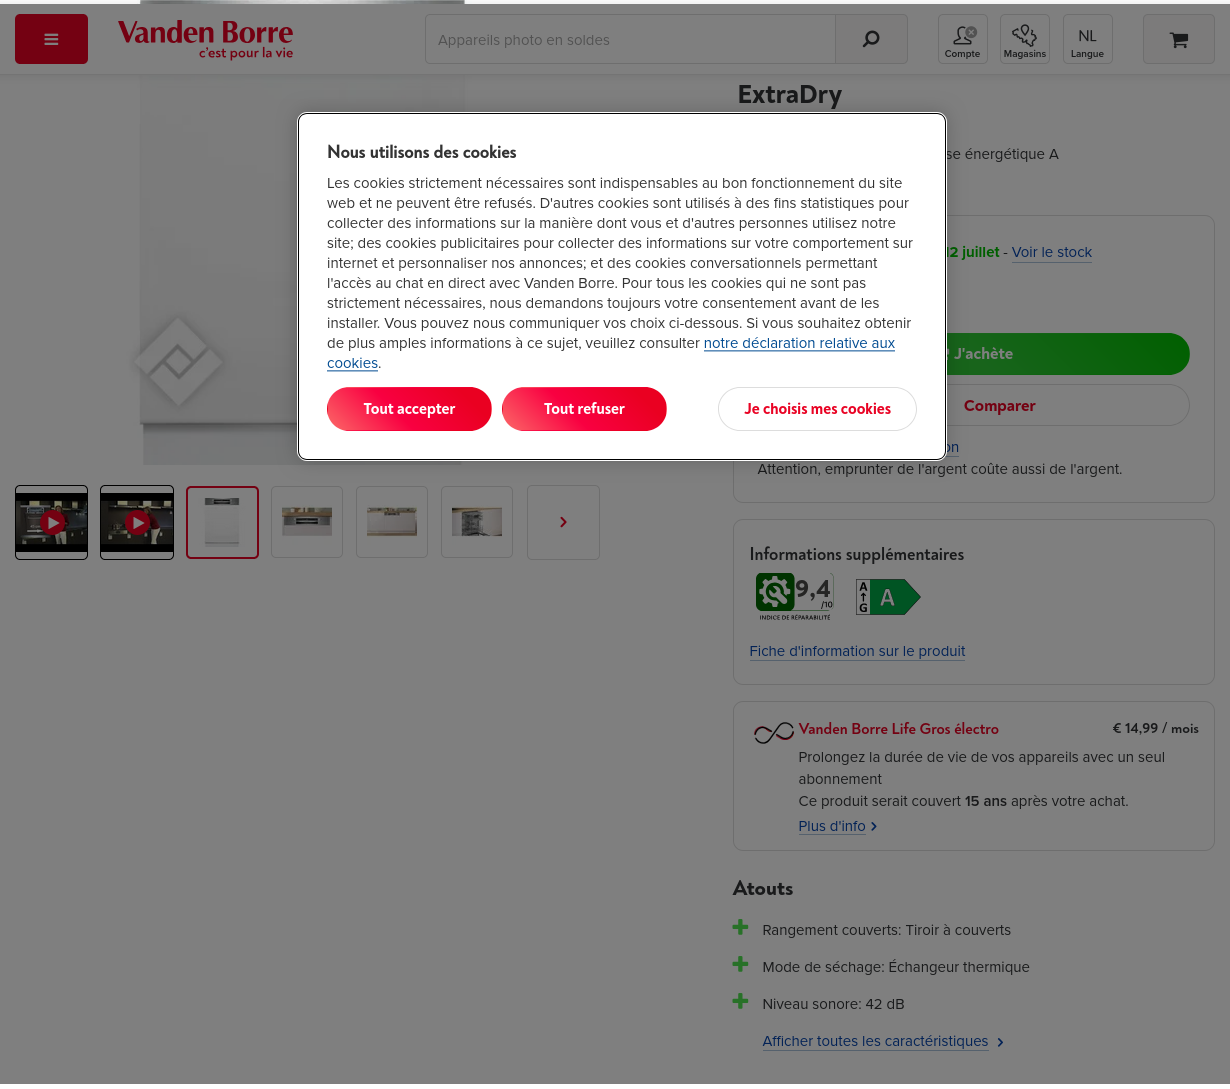
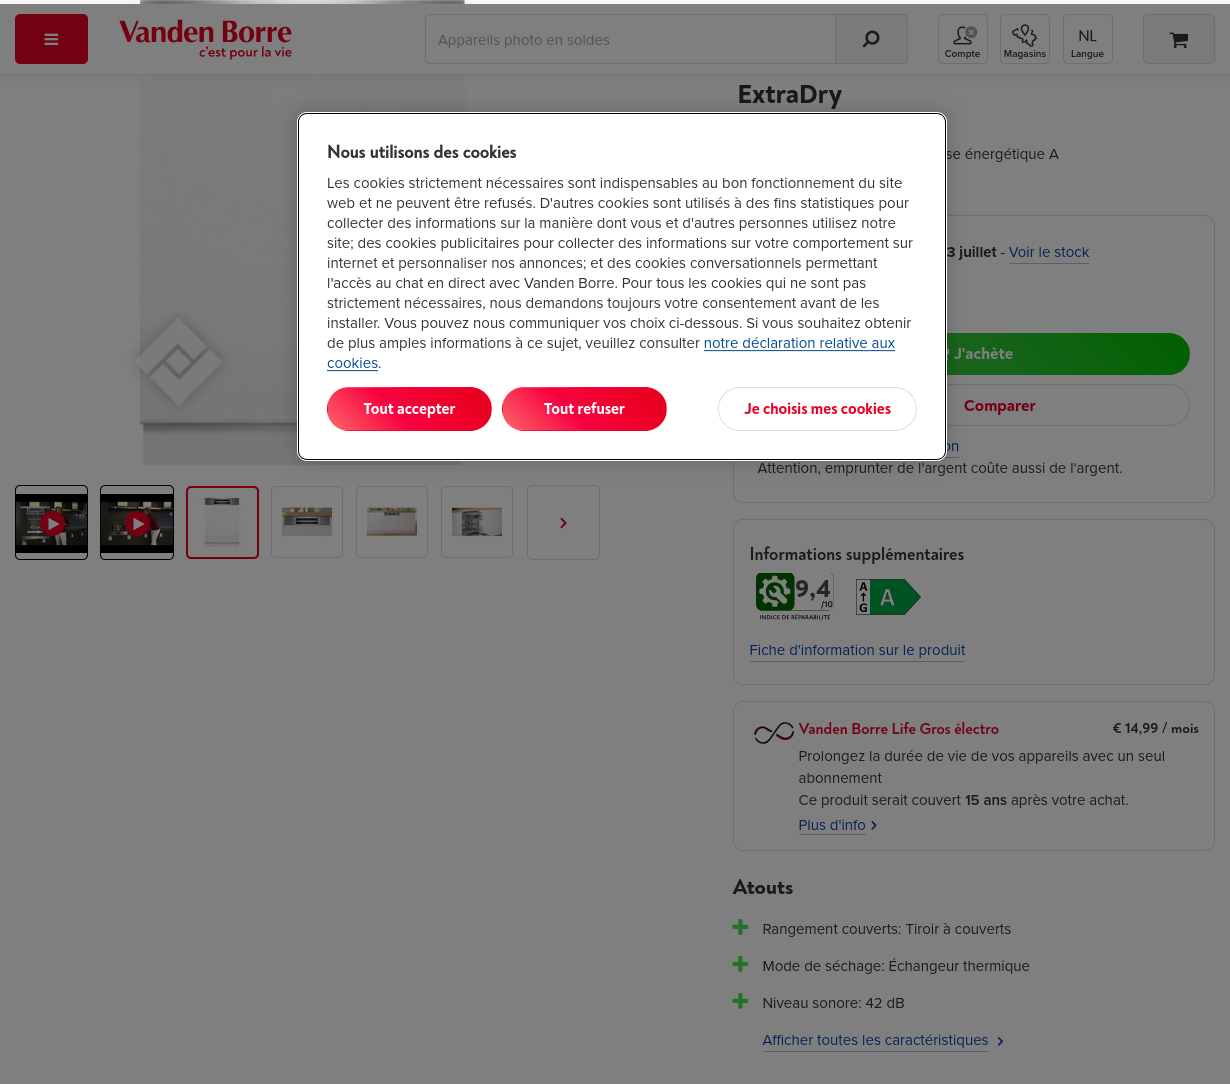
Latest scraping prices: Tue Jul  8 07:29:07 UTC 2025

diff --git a/scrapes/prices/vandenborre-SMI4ECS28E.md b/scrapes/prices/vandenborre-SMI4ECS28E.md
@@ -1,4 +1,4 @@
-Disponible à partir du sam. 12 juillet \- Voir le stock
+Disponible à partir du dim. 13 juillet \- Voir le stock
 
 € 699,00
 
